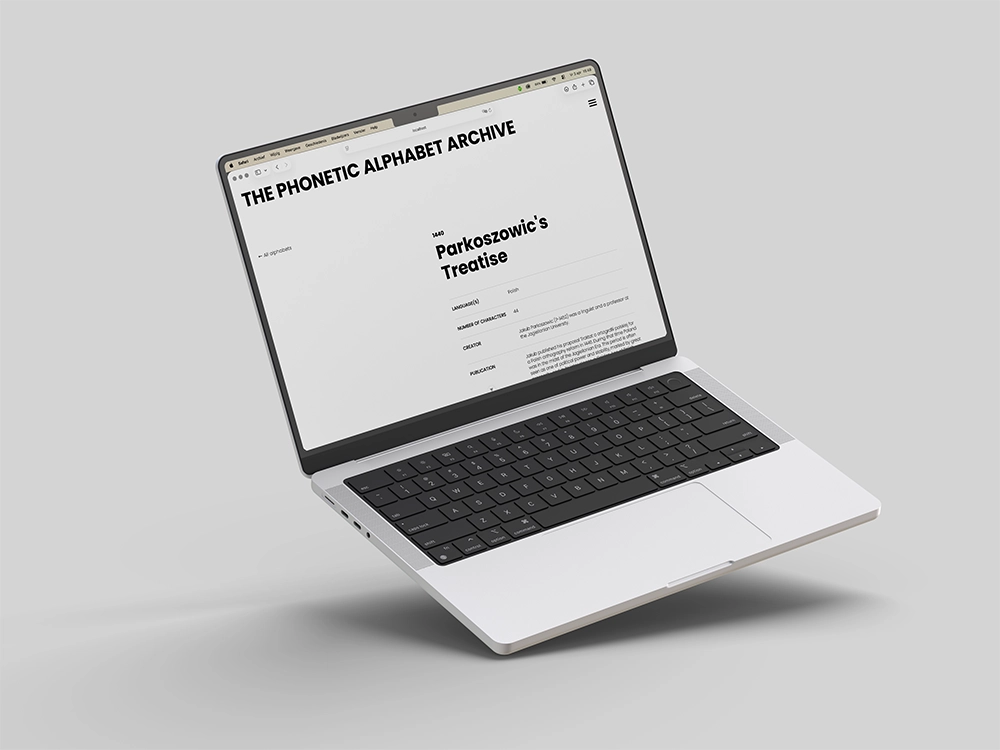
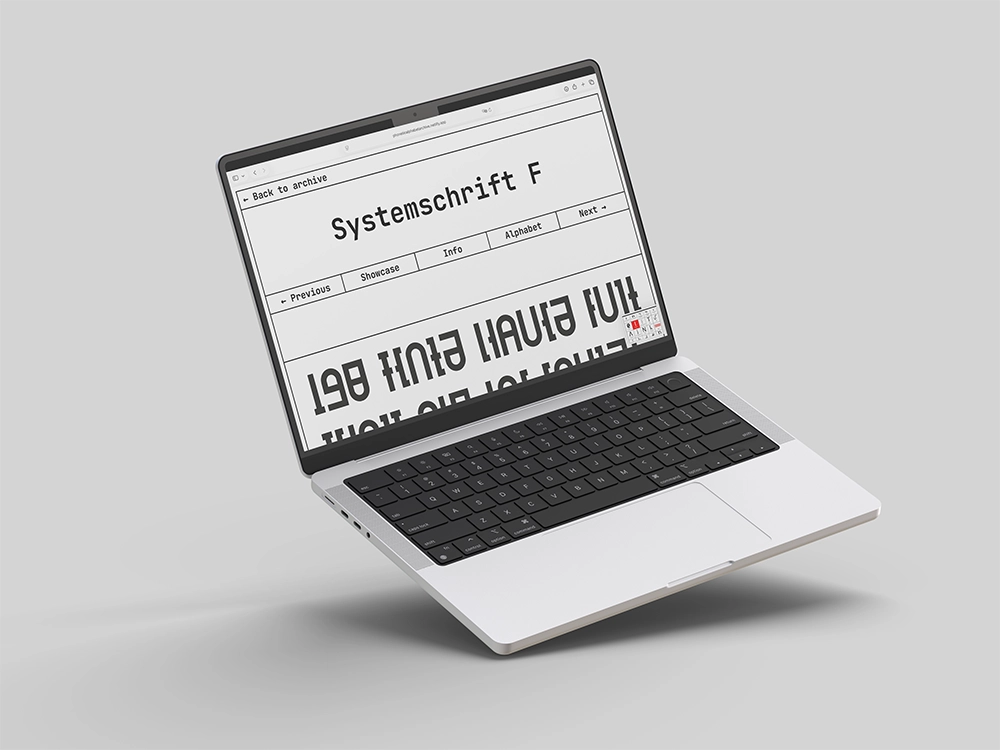
Addition of phonetic alphabet archive

Changed region(s): [[0.217, 0.092, 0.682, 0.6133]]

diff --git a/src/views/ProjectPage.vue b/src/views/ProjectPage.vue
@@ -53,9 +53,19 @@
           v-if="project.downloadPdf"
           :href="project.downloadPdf.href"
           target="_blank"
-          class="download"
+          class="link"
       >
         {{ project.downloadPdf.label }}
+      </a>
+
+      <!-- OPTIONAL LINK (placed logically at end) -->
+      <a
+          v-if="project.link"
+          :href="project.link.href"
+          target="_blank"
+          class="link"
+      >
+        {{ project.link.label }}
       </a>
 
     </section>
@@ -136,9 +146,12 @@ img {
   width: 45%;
 }
 
-.download {
-  width: fit-content;
+.link {
   align-self: center;
+  background: var(--primary-color);
+  color: white;
+  border-radius: 2rem;
+  padding: 0.5rem 1rem;
 }
 
 .first {

diff --git a/src/views/WorkView.vue b/src/views/WorkView.vue
@@ -76,11 +76,11 @@ const projectMap = Object.fromEntries(
       </div>
 
       <div class="fifth">
-        <RouterLink :to="`/projects/${projectMap.dashboard.id}`">
-          <img :src="projectMap.dashboard.cover" />
+        <RouterLink :to="`/projects/${projectMap.phoneticalphabet.id}`">
+          <img :src="projectMap.phoneticalphabet.cover" />
           <div class="text">
-            <span>{{ projectMap.dashboard.title }}</span>
-            <span>{{ projectMap.dashboard.year }}</span>
+            <span>{{ projectMap.phoneticalphabet.title }}</span>
+            <span>{{ projectMap.phoneticalphabet.year }}</span>
           </div>
         </RouterLink>
       </div>